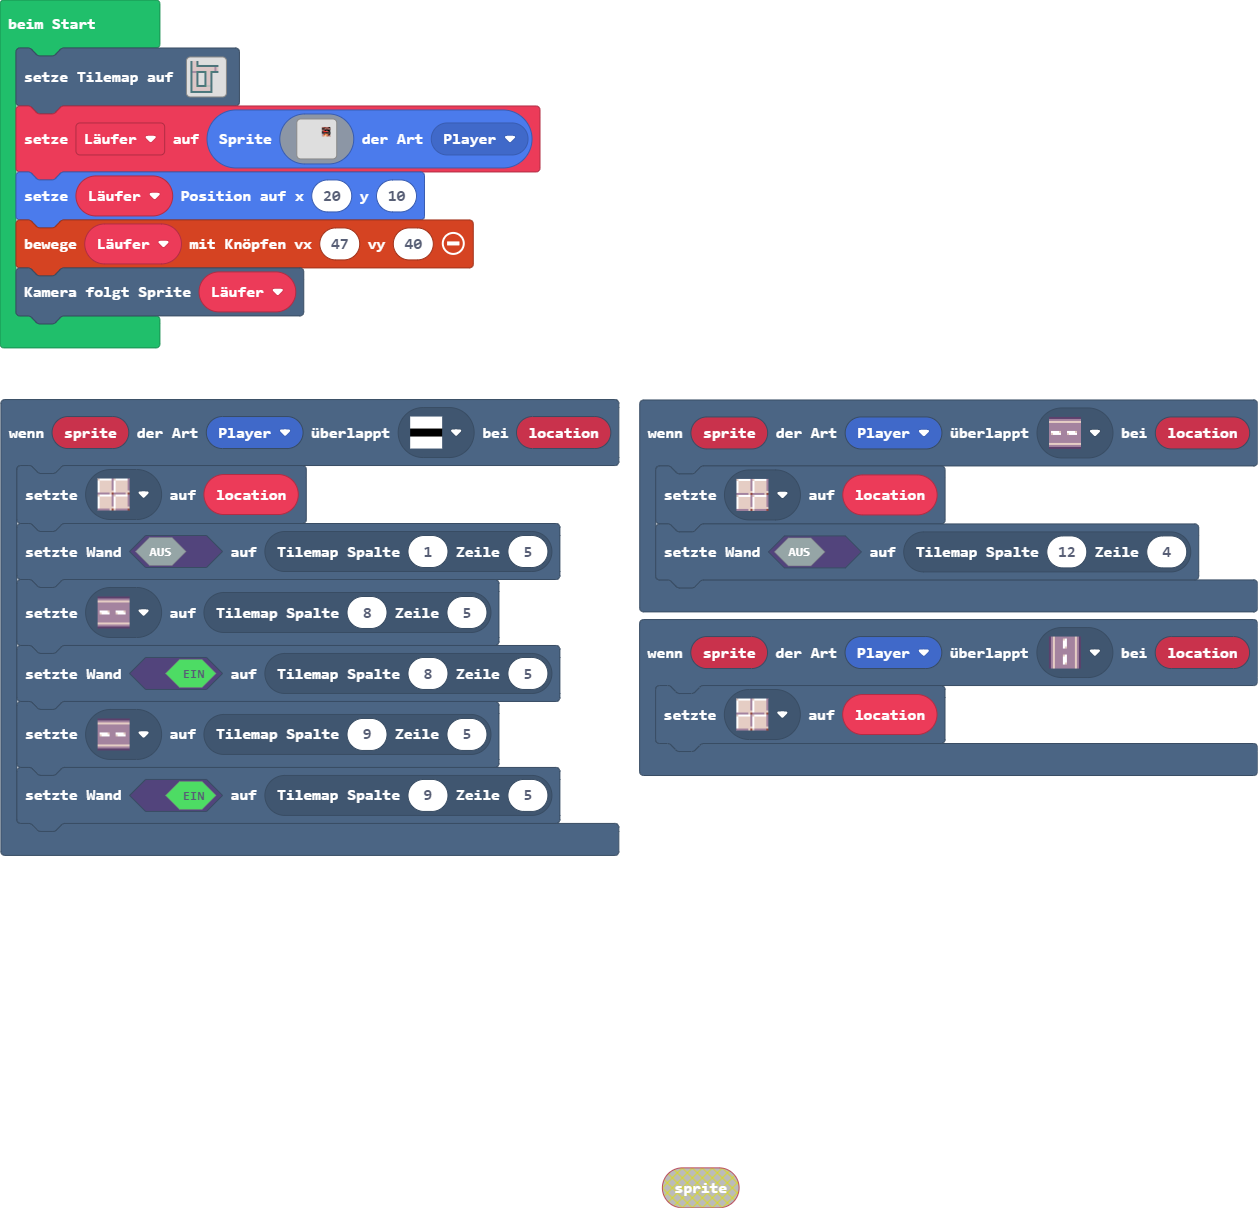
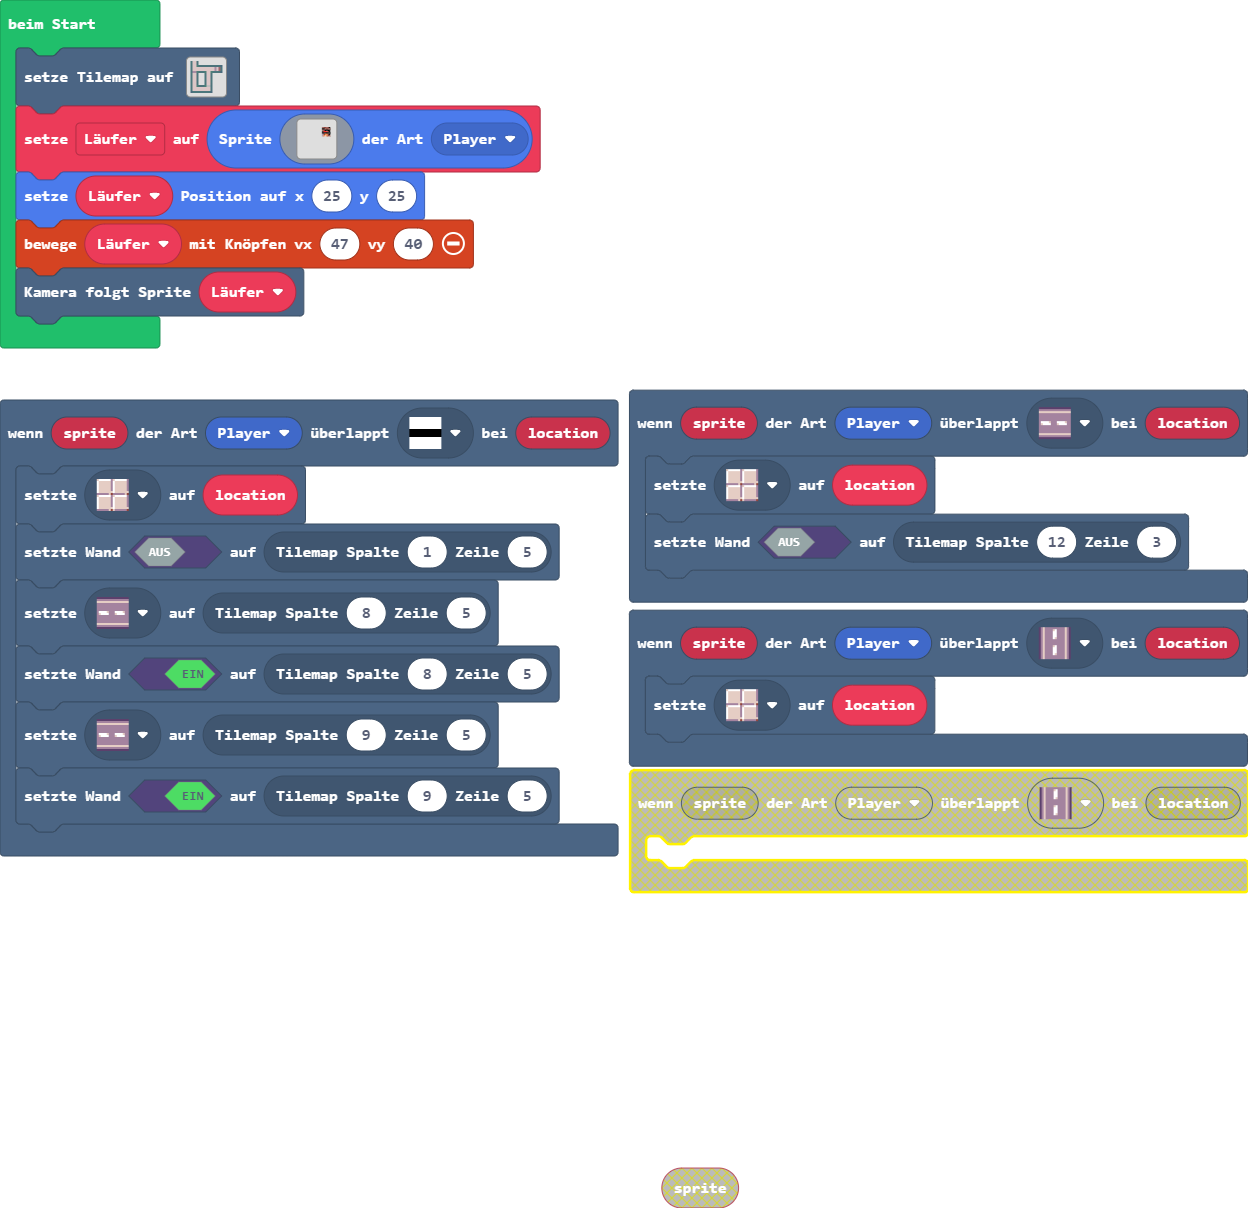
Aktualisiere main.blocks, main.ts

diff --git a/main.ts b/main.ts
@@ -11,15 +11,15 @@ scene.onOverlapTile(SpriteKind.Player, sprites.vehicle.roadVertical, function (s
 })
 scene.onOverlapTile(SpriteKind.Player, sprites.vehicle.roadHorizontal, function (sprite, location) {
     tiles.setTileAt(location, sprites.dungeon.floorLight0)
-    tiles.setWallAt(tiles.getTileLocation(12, 4), false)
+    tiles.setWallAt(tiles.getTileLocation(12, 3), false)
 })
[2 lines of base64/hex data omitted]
+    2 2 2 2 . . . . . . . . . . . . 
     2 . . 2 . . . . . . . . . . . . 
-    2 . . 2 . . . . . . . . . . . . 
-    2 . . 2 2 2 2 2 2 2 2 2 2 2 . . 
-    2 . . . . . . . . . . . 2 . . . 
-    2 . . . . . . . . . . . 2 . . . 
-    2 2 2 2 2 2 2 2 . . 2 2 2 2 . . 
+    2 . . 2 2 2 2 2 2 2 2 2 2 2 2 2 
+    2 . . . . . . . . . . . 2 . . 2 
+    2 . . . . . . . . . . . 2 . . 2 
+    2 2 2 2 2 2 2 2 . . 2 2 2 2 2 2 
     2 . . 2 . . . 2 . . 2 . . . . . 
     2 . . 2 . . . 2 . . 2 . . . . . 
     2 . . 2 . . . 2 . . 2 . . . . . 
@@ -30,7 +30,7 @@ tiles.setTilemap(tiles.createTilemap(hex`10001000080a0a0300000000000000000000000
     2 . . . . . . . . . 2 . . . . . 
     2 . . . . . . . . . 2 . . . . . 
     2 2 2 2 2 2 2 2 2 2 2 . . . . . 
-    `, [myTiles.transparency16,sprites.dungeon.greenOuterWest0,sprites.dungeon.greenOuterSouthEast,sprites.dungeon.greenOuterWest1,sprites.dungeon.greenOuterSouth0,sprites.dungeon.greenOuterSouthWest,sprites.dungeon.greenOuterNorthWest,sprites.dungeon.greenOuterNorthEast,sprites.dungeon.greenOuterEast0,sprites.dungeon.greenOuterNorth0,sprites.dungeon.floorLight0,sprites.vehicle.roadHorizontal,sprites.vehicle.roadVertical,myTiles.tile2], TileScale.Sixteen))
+    `, [myTiles.transparency16,sprites.dungeon.greenOuterWest0,sprites.dungeon.greenOuterSouthEast,sprites.dungeon.greenOuterWest1,sprites.dungeon.greenOuterSouth0,sprites.dungeon.greenOuterSouthWest,sprites.dungeon.greenOuterNorthWest,sprites.dungeon.greenOuterNorthEast,sprites.dungeon.greenOuterEast0,sprites.dungeon.greenOuterNorth0,sprites.dungeon.floorLight0,sprites.vehicle.roadHorizontal,sprites.vehicle.roadVertical,myTiles.tile2,sprites.dungeon.greenOuterNorth1,sprites.dungeon.chestOpen,sprites.dungeon.greenInnerNorthEast,sprites.dungeon.greenInnerSouthEast,sprites.dungeon.greenInnerSouthWest], TileScale.Sixteen))
 let Läufer = sprites.create(img`
     ........................
     ........................
@@ -57,6 +57,6 @@ let Läufer = sprites.create(img`
     ........................
     ........................
     `, SpriteKind.Player)
-Läufer.setPosition(20, 10)
+Läufer.setPosition(25, 25)
 controller.moveSprite(Läufer, 47, 40)
 scene.cameraFollowSprite(Läufer)
